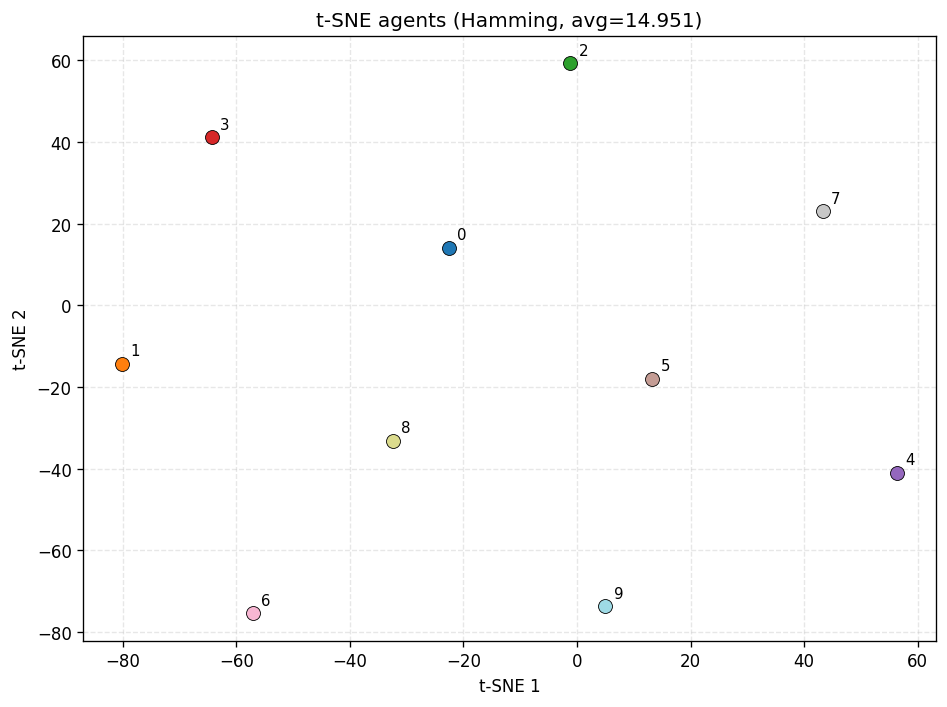
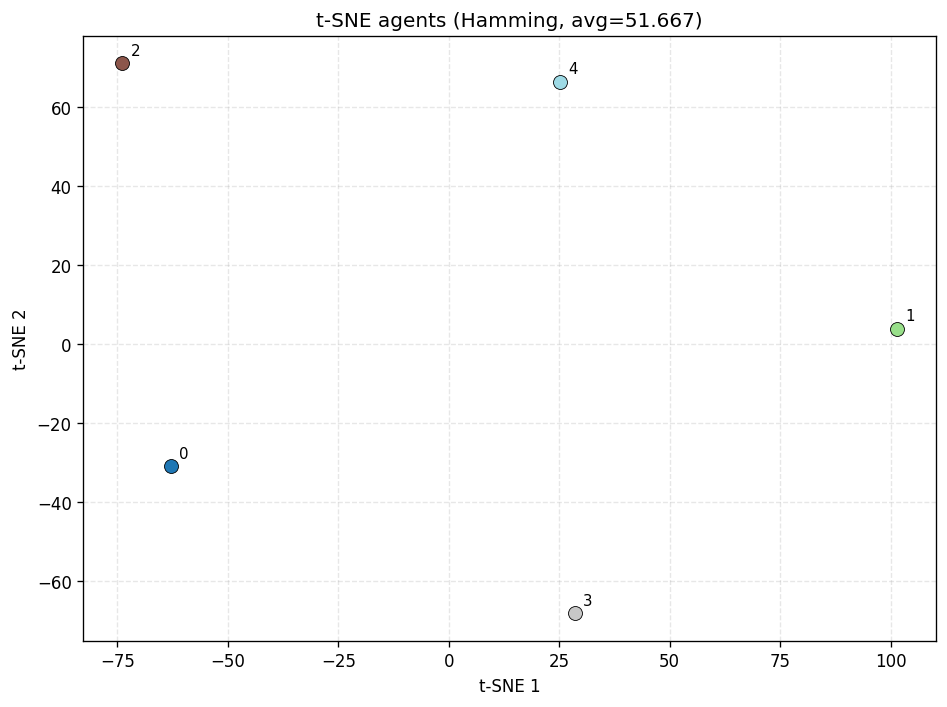
ajout FR

diff --git a/source_code/main_expe_overall.py b/source_code/main_expe_overall.py
@@ -164,6 +164,43 @@ def _load_grids():
     return DEFAULT_GRIDS
 
 
+def _parse_int_list(raw: str):
+    if raw is None:
+        return None
+    parts = [p for p in re.split(r"[,\s]+", str(raw).strip()) if p]
+    if not parts:
+        raise argparse.ArgumentTypeError("Expected a non-empty list of integers.")
+    values = []
+    for part in parts:
+        try:
+            values.append(int(part))
+        except ValueError as exc:
+            raise argparse.ArgumentTypeError(f"Invalid integer '{part}'.") from exc
+    return values
+
+
+def _apply_m_override(grids, m_values):
+    if not m_values:
+        return grids
+    overridden = []
+    for grid in grids:
+        if grid.get("configs"):
+            new_configs = []
+            for cfg in grid["configs"]:
+                for m in m_values:
+                    new_cfg = dict(cfg)
+                    new_cfg["M"] = int(m)
+                    new_configs.append(new_cfg)
+            new_grid = dict(grid)
+            new_grid["configs"] = new_configs
+            overridden.append(new_grid)
+        else:
+            new_grid = dict(grid)
+            new_grid["M_values"] = [int(m) for m in m_values]
+            overridden.append(new_grid)
+    return overridden
+
+
 def _discover_qubo_instances(instances_root: Path, nb_instances: int):
     seen = {}
     for fname in os.listdir(instances_root):
@@ -760,13 +797,20 @@ def _collect_config_stats(config_dir: str, config_name: str, params: dict, repo_
 def main():
     parser = argparse.ArgumentParser(description="Overall PPO-EDA decay grid (QUBO + NK).")
     parser.add_argument("--outdir", type=str, default=None, help="Root output dir (default: results/config).")
+    parser.add_argument(
+        "-m",
+        "--m-values",
+        type=_parse_int_list,
+        default=None,
+        help="Override M_values grid with a comma/space-separated list (e.g. -m 7,8,9,6).",
+    )
     args = parser.parse_args()
 
     repo_root = os.path.abspath(os.path.join(os.path.dirname(__file__), ".."))
     out_root = args.outdir or os.path.join(repo_root, "results", "config")
     Path(out_root).mkdir(parents=True, exist_ok=True)
 
-    grids = _load_grids()
+    grids = _apply_m_override(_load_grids(), args.m_values)
 
     instances_root = Path(repo_root) / "source_code" / "instances"
     qubo_instances = _discover_qubo_instances(instances_root / "QUBO", DEFAULTS["nb_instances_test"])

diff --git a/source_code/eda_strategies/MultiAgentUnivariate/SVGD/kernels/FR.py b/source_code/eda_strategies/MultiAgentUnivariate/SVGD/kernels/FR.py
@@ -9,16 +9,20 @@ class FisherRaoKernel(nn.Module):
     Kernel Fisher-Rao pour tenseurs (B, M, N).
 
     Pour deux tenseurs Thetas de forme (B, M, N), on calcule :
-        d_FR(theta_i, theta_j) = 2 * sqrt( sum_k (arcsin(sqrt(p_i,k)) - arcsin(sqrt(p_j,k)))^2 )
-    avec p = sigmoid(theta) (probs passés en paramètre).
+        d_FR(theta_i, theta_j) = sqrt( 4 * sum_k (arcsin(sqrt(p_i,k)) - arcsin(sqrt(p_j,k)))^2 )
+    avec p = sigmoid(theta) (probs passées en paramètre).
 
     Le noyau est :
-        K[b, i, j] = exp( - bandwith_kernel * d_FR(theta_i, theta_j) )
+        K[b, i, j] = exp( - gamma * d_FR(theta_i, theta_j) )
+                    * prod_k g(p_{i,k}) g(p_{j,k})
+    où
+        g(x) = exp( -1 / (tau^2 * x * (1 - x)) + 4 / tau^2 )
     """
 
-    def __init__(self, bandwith_kernel=None):
+    def __init__(self, bandwith_kernel=None, tau=10000.0):
         super().__init__()
         self.bandwith_kernel = bandwith_kernel
+        self.tau = float(tau)
 
     def forward(self, Thetas, probs=None):
         """
@@ -36,7 +40,7 @@ class FisherRaoKernel(nn.Module):
 
         B, M, N = Thetas.shape
 
-        # d_FR = 2 * sqrt( sum_k (arcsin(sqrt(p_i,k)) - arcsin(sqrt(p_j,k)))^2 )
+        # d_FR = sqrt( 4 * sum_k (arcsin(sqrt(p_i,k)) - arcsin(sqrt(p_j,k)))^2 )
         angles = torch.asin(torch.sqrt(probs))  # arcsin(sqrt(p))
         angles_i = angles.unsqueeze(2)               # (B, M, 1, N)
         angles_j = angles.detach().unsqueeze(1)      # (B, 1, M, N)
@@ -45,11 +49,17 @@ class FisherRaoKernel(nn.Module):
         d_fr = 2.0 * torch.sqrt(sq_sum)
 
         if self.bandwith_kernel is None:
-            bandwith_kernel = adaptative_bandwith(d_fr, eps=1e-8)
+            gamma = adaptative_bandwith(d_fr,  eps=1e-8)
         else:
-            bandwith_kernel = self.bandwith_kernel
+            gamma = self.bandwith_kernel
 
-        K = torch.exp(-bandwith_kernel * d_fr)
+        # g(x) = exp( -1 / (tau^2 * x * (1 - x)) + 4 / tau^2 )
+        tau2 = self.tau ** 2
+        g = torch.exp(-1.0 / (tau2 * probs * (1.0 - probs)) + (4.0 / tau2))  # (B, M, N)
+        prod_g = g.prod(dim=-1)  # (B, M)
+        g_pair = prod_g.unsqueeze(2) * prod_g.unsqueeze(1)  # (B, M, M)
+
+        K = torch.exp(-gamma * d_fr) * g_pair
 
         grad_Thetas = torch.zeros((B, M, N), device=Thetas.device, dtype=Thetas.dtype)
 